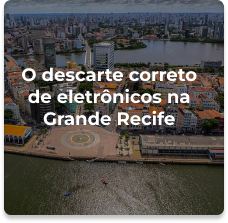
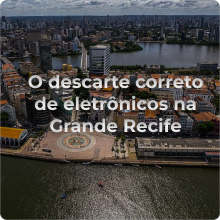
feat/ tela completa

diff --git a/eco-revive/src/pages/quemSomos/index.js b/eco-revive/src/pages/quemSomos/index.js
@@ -13,10 +13,17 @@ import Eletronic from "../../assets/Eletronic.png";
 import Rec from "../../assets/Rec.png";
 import Company from "../../assets/Company.png";
 
-import { Container, Content, Inicio, Section, Presentation, Mission, Values} from "./style";
+import {
+  Container,
+  Content,
+  Inicio,
+  Section,
+  Presentation,
+  Mission,
+  Values,
+} from "./style";
 import ColaboratorSection from "../../components/colaboratorSection";
 import Copyright from "../../components/copyright";
-
 
 function QuemSomos() {
   return (
@@ -38,18 +45,23 @@ function QuemSomos() {
             do Grande Recife e região Metropolitana.
           </p>
         </Mission>
-        <img src={OurMission} />
+        <div>
+          <img src={OurMission} />
+        </div>
       </Section>
       <Section background="green">
-        <img src={OurVision} />
+        <div>
+          <img src={OurVision} />
+        </div>
         <div>
           <h2>Nossa visão</h2>
           <p>
-          Ser uma empresa competitiva no âmbito de reciclagem de eletrônicos na Grande Recife até o segundo semestre de 2024.
+            Ser uma empresa competitiva no âmbito de reciclagem de eletrônicos
+            na Grande Recife até o segundo semestre de 2024.
           </p>
         </div>
       </Section>
-      <BottomGreenWave/>
+      <BottomGreenWave />
       <Section>
         <Values>
           <h2>Nossos valores</h2>
@@ -60,27 +72,41 @@ function QuemSomos() {
             <li>Inovação</li>
           </ul>
         </Values>
-        <img src={OurValues} />
+        <div>
+          <img src={OurValues} />
+        </div>
       </Section>
       <Section direction="vertical" background="blue">
-          <h2>O que nos motiva?</h2>
+        <h2>O que nos motiva?</h2>
         <Content>
-          <img src={Eco} />
-          <img src={Tech} />
-          <img src={Eletronic} />
-          <img src={Rec} />
-          <img src={Company} />
+          <div>
+            <img src={Eco} />
+          </div>
+          <div>
+            <img src={Tech} />
+          </div>
+          <div>
+            <img src={Eletronic} />
+          </div>
+          <div>
+            <img src={Rec} />
+          </div>
+          <div>
+            <img src={Company} />
+          </div>
         </Content>
       </Section>
-      <BottomBlueWave/>
+      <BottomBlueWave />
       <Section>
         <Presentation>
-          <p>Somos a solução para os lixos eletrônicos descartados incorretamente
-          na Grande Recife!</p>
+          <p>
+            Somos a solução para os lixos eletrônicos descartados incorretamente
+            na Grande Recife!
+          </p>
         </Presentation>
       </Section>
-     <ColaboratorSection/>
-     <Copyright />
+      <ColaboratorSection />
+      <Copyright />
     </Container>
   );
 }

diff --git a/eco-revive/src/pages/quemSomos/style.js b/eco-revive/src/pages/quemSomos/style.js
@@ -1,10 +1,11 @@
 import styled from "styled-components";
-import Background from "../../assets/Bg-quem-somos.jpg";
+import Background from "../../assets/bg-quem-somos.jpg";
 
 export const Container = styled.body`
   font-family: Montserrat, sans-serif;
   color: #002454;
   margin: 0;
+  flex-wrap: wrap;
 
   h2 {
     font-size: 1.5rem;
@@ -33,9 +34,12 @@ export const Inicio = styled.section`
   flex-direction: column;
   align-items: center;
   justify-content: center;
+  flex-wrap: wrap;
   padding: 6rem 0;
   gap: 0.5rem;
   background-image: url(${Background});
+  background-position: center;
+  background-size: auto;
   flex-wrap: wrap;
   background-repeat: no-repeat;
   background-size: 100%;
@@ -51,14 +55,6 @@ export const Inicio = styled.section`
     color: #4eb969;
     font-weight: bold;
   }
-`;
-
-export const Content = styled.div`
-  display: flex;
-  flex-wrap: wrap;
-  flex-direction: row;
-  align-items: center;
-  justify-content: center;
 `;
 
 export const Mission = styled.div`
@@ -82,6 +78,19 @@ p{
 }
 `;
 
+export const Content = styled.div`
+  display: flex;
+  flex-wrap: wrap;
+  flex-direction: row;
+  align-items: center;
+  justify-content: center;
+  padding: 1rem;
+
+  img{
+    padding: 1rem;
+  }
+`;
+
 export const Presentation = styled.div`
   p {
     color: #52d874;
@@ -94,6 +103,7 @@ export const Section = styled.section`
   display: flex;
   align-items: center;
   justify-content: center;
+  flex-wrap: wrap;
   column-gap: 3rem;
   row-gap: 1rem;
   padding: 2rem 0;

diff --git a/eco-revive/src/components/navbar/style.js b/eco-revive/src/components/navbar/style.js
@@ -5,6 +5,7 @@ export const Container = styled.div`
   flex-direction: row;
   align-items: center;
   justify-content: space-between;
+  flex-wrap: wrap;
   padding: 1rem 7.5rem;
   //padding: 0 7.5rem; LEMBRETE: rever responsividade
 
@@ -35,9 +36,4 @@ export const Container = styled.div`
 `;
 
 export const BtnContainer = styled.div`
-  display: flex;
-  flex-direction: row;
-  gap: 1rem;
-  width: 100%;
-  max-width: 25rem;
 `;

diff --git a/eco-revive/src/components/button/style.js b/eco-revive/src/components/button/style.js
@@ -1,9 +1,9 @@
 import styled from "styled-components";
 
 export const Btn = styled.button`
-  width: 100%;
-  max-width: 9.5rem;
-  border-radius: 6.25rem;
+  max-width: 10rem;
+  display: flex;
+  border-radius: 6rem;
   padding: 0.5rem 1.5rem;
   justify-content: center;
   align-items: center;
